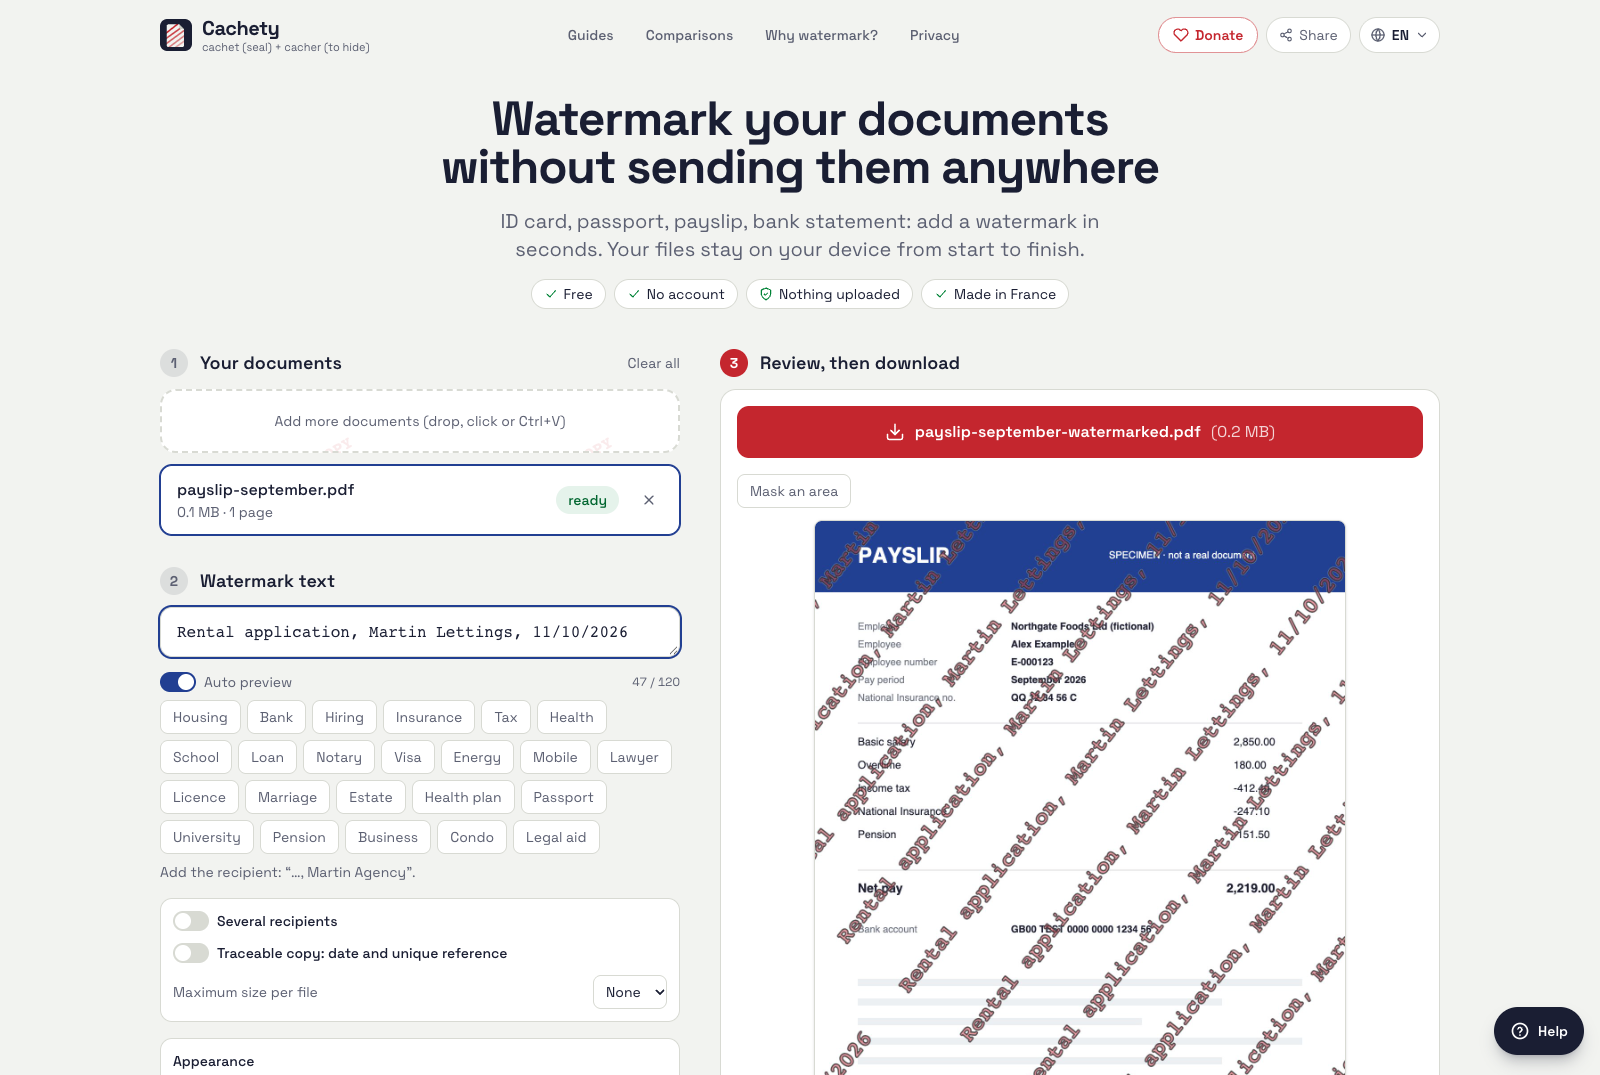
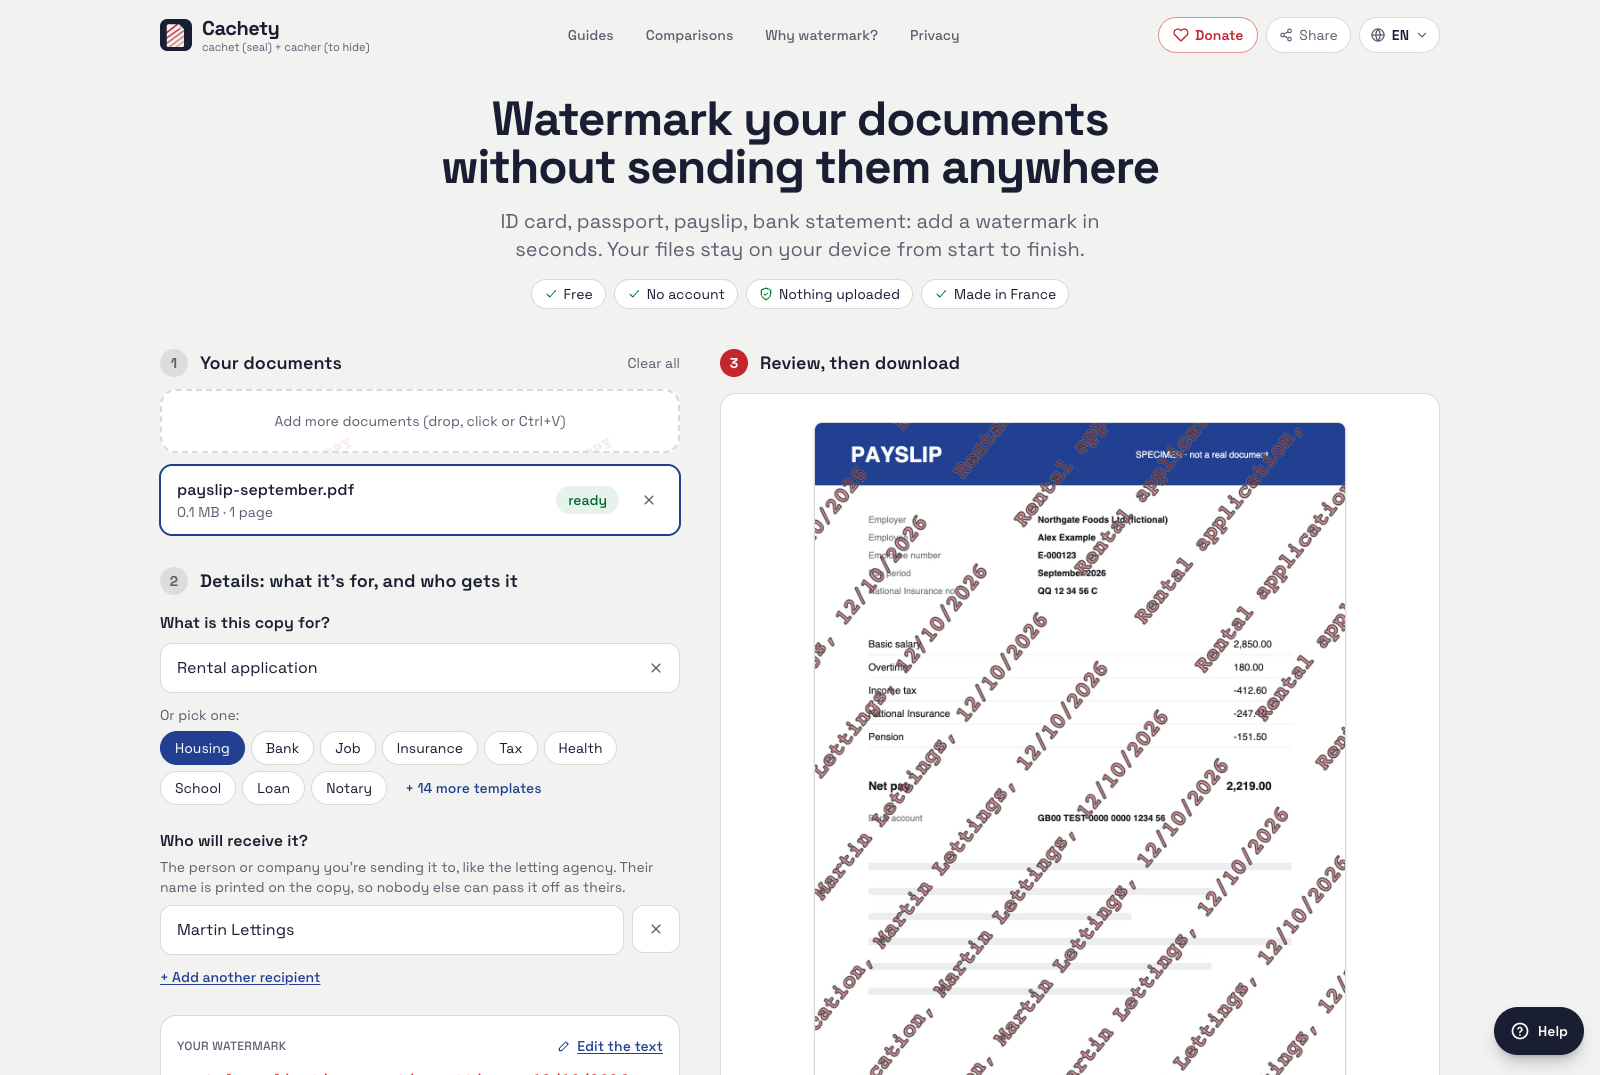
README screenshot of the new tool, reproducible with bun run screenshot
- docs/preview.png retaken from the built site (English specimen
  payslip, purpose and recipient filled in), via scripts/screenshot.ts.
- Single recipient field uses the full width.
- Sharing images regenerated and unchanged (not committed).

diff --git a/scripts/screenshot.ts b/scripts/screenshot.ts
@@ -1,0 +1,86 @@
+// Capture d'écran de l'outil pour les README (docs/preview.png, 1600×1075).
+// Reproductible : l'export statique servi avec les en-têtes de production,
+// un bulletin de paie fictif, le motif « Rental application » et le
+// destinataire « Martin Lettings ». À relancer quand l'interface change.
+//
+//   bun run build && CHROMIUM_EXE="/chemin/vers/chrome" bun run screenshot
+
+import { join } from "node:path";
+import { launchBrowser, MAP_UPSERT_POLYFILL } from "../e2e/helpers/browser";
+import { PDFDocument, rgb, StandardFonts } from "pdf-lib";
+import { E2E_ORIGIN, startServer } from "../e2e/helpers/server";
+import { STRINGS } from "../lib/i18n";
+
+const ROOT = join(import.meta.dir, "..");
+
+/** Bulletin de paie anglais, fictif et marqué comme spécimen (page en anglais). */
+async function specimenPayslip() {
+  const doc = await PDFDocument.create();
+  const page = doc.addPage([595, 842]);
+  const font = await doc.embedFont(StandardFonts.Helvetica);
+  const bold = await doc.embedFont(StandardFonts.HelveticaBold);
+  const ink = rgb(0.07, 0.07, 0.1);
+  const soft = rgb(0.45, 0.47, 0.52);
+  page.drawRectangle({ x: 0, y: 772, width: 595, height: 70, color: rgb(0.13, 0.25, 0.57) });
+  page.drawText("PAYSLIP", { x: 40, y: 798, size: 24, font: bold, color: rgb(1, 1, 1) });
+  page.drawText("SPECIMEN · not a real document", { x: 360, y: 803, size: 10, font, color: rgb(1, 1, 1) });
+  const rows: [string, string][] = [
+    ["Employer", "Northgate Foods Ltd (fictional)"],
+    ["Employee", "Alex Example"],
+    ["Employee number", "E-000123"],
+    ["Pay period", "September 2026"],
+    ["National Insurance no.", "QQ 12 34 56 C"],
+  ];
+  rows.forEach(([k, v], i) => {
+    page.drawText(k, { x: 60, y: 730 - i * 20, size: 10, font, color: soft });
+    page.drawText(v, { x: 250, y: 730 - i * 20, size: 10, font: bold, color: ink });
+  });
+  const lines: [string, string][] = [
+    ["Basic salary", "2,850.00"],
+    ["Overtime", "180.00"],
+    ["Income tax", "-412.60"],
+    ["National Insurance", "-247.10"],
+    ["Pension", "-151.50"],
+  ];
+  lines.forEach(([k, v], i) => {
+    const y = 590 - i * 26;
+    page.drawText(k, { x: 60, y, size: 11, font, color: ink });
+    page.drawText(v, { x: 470, y, size: 11, font, color: ink });
+    page.drawLine({ start: { x: 60, y: y - 8 }, end: { x: 535, y: y - 8 }, thickness: 0.5, color: rgb(0.88, 0.89, 0.9) });
+  });
+  page.drawText("Net pay", { x: 60, y: 430, size: 13, font: bold, color: ink });
+  page.drawText("2,219.00", { x: 462, y: 430, size: 13, font: bold, color: ink });
+  page.drawText("Bank account", { x: 60, y: 395, size: 10, font, color: soft });
+  page.drawText("GB00 TEST 0000 0000 1234 56", { x: 250, y: 395, size: 10, font: bold, color: ink });
+  for (let i = 0; i < 6; i++)
+    page.drawRectangle({ x: 60, y: 340 - i * 28, width: 475 - (i % 3) * 90, height: 8, color: rgb(0.92, 0.93, 0.94) });
+  return doc.save();
+}
+const t = STRINGS.en;
+const server = startServer(join(ROOT, "out"));
+const browser = await launchBrowser();
+try {
+  const context = await browser.newContext({ viewport: { width: 1600, height: 1075 }, deviceScaleFactor: 1 });
+  await context.addInitScript(MAP_UPSERT_POLYFILL);
+  // La bulle d'aide ne doit pas apparaître sur la capture.
+  await context.addInitScript(() => localStorage.setItem("tourNudged", "1"));
+  const page = await context.newPage();
+  await page.goto(`${E2E_ORIGIN}/en`);
+  await page
+    .locator(`input[aria-label="${t.inputAria}"]`)
+    .setInputFiles({ name: "payslip-september.pdf", mimeType: "application/pdf", buffer: Buffer.from(await specimenPayslip()) });
+  await page.getByRole("button", { name: t.presets[0].label }).click();
+  await page.getByRole("textbox", { name: t.recipients.aria(1) }).fill("Martin Lettings");
+  await page.locator("#apercu img").first().waitFor({ timeout: 30_000 });
+  await page.waitForFunction(() => !document.querySelector('#apercu [aria-busy="true"]'), null, { timeout: 30_000 });
+  await page.evaluate(() => (document.activeElement as HTMLElement | null)?.blur());
+  await page.evaluate(() => document.fonts.ready);
+  await page.mouse.move(0, 0);
+  await page.evaluate(() => window.scrollTo(0, 0));
+  await page.waitForTimeout(500);
+  await page.screenshot({ path: join(ROOT, "docs", "preview.png") });
+  console.log("docs/preview.png mis à jour");
+} finally {
+  await browser.close();
+  server.stop();
+}

diff --git a/components/StampDetails.tsx b/components/StampDetails.tsx
@@ -158,7 +158,7 @@ export function StampDetails({
       <p id={`${id}-who-help`} className="mt-1 text-sm text-encre-2">
         {r.help}
       </p>
-      <ul aria-labelledby={`${id}-who`} className="mt-2 grid gap-2 xl:grid-cols-2">
+      <ul aria-labelledby={`${id}-who`} className={`mt-2 grid gap-2 ${fields.length > 1 ? "xl:grid-cols-2" : ""}`}>
         {fields.map((value, i) => (
           <li key={i} className="flex gap-2">
             <div className="relative min-w-0 flex-1">

diff --git a/README.md b/README.md
@@ -90,6 +90,7 @@ Stack: Next.js (static export), React, Tailwind CSS, PDF.js, pdf-lib, libheif.
 - Guides: `lib/guides/<lang>.ts`.
 - Comparison pages ("Cachety vs X"): `lib/compare/<lang>.ts`. Every claim about another tool must cite its source (`sources`) and carry the date it was checked (`checked`), and each page must say when the other tool is the better choice. Re-check these facts regularly: services change.
 - Social sharing images (`public/og/<lang>.png`, 1200×630) are generated from the site's own text and fonts with `bun run og` (needs Chrome: set `CHROMIUM_EXE`). Re-run it when the headline or the promises change.
+- The README screenshot (`docs/preview.png`, 1600×1075) is taken from the built site with `bun run build && bun run screenshot` (same `CHROMIUM_EXE`). Re-run it when the interface changes.
 - Right-to-left languages use logical Tailwind classes (`ms-`, `pe-`, `start-`, `end-`…) rather than `ml-`, `pr-`, `left-`, `right-`.
 
 Every language must keep the same structure; tests check this. Contribution rules and file map: **[CONTRIBUTING.md](CONTRIBUTING.md)**.
